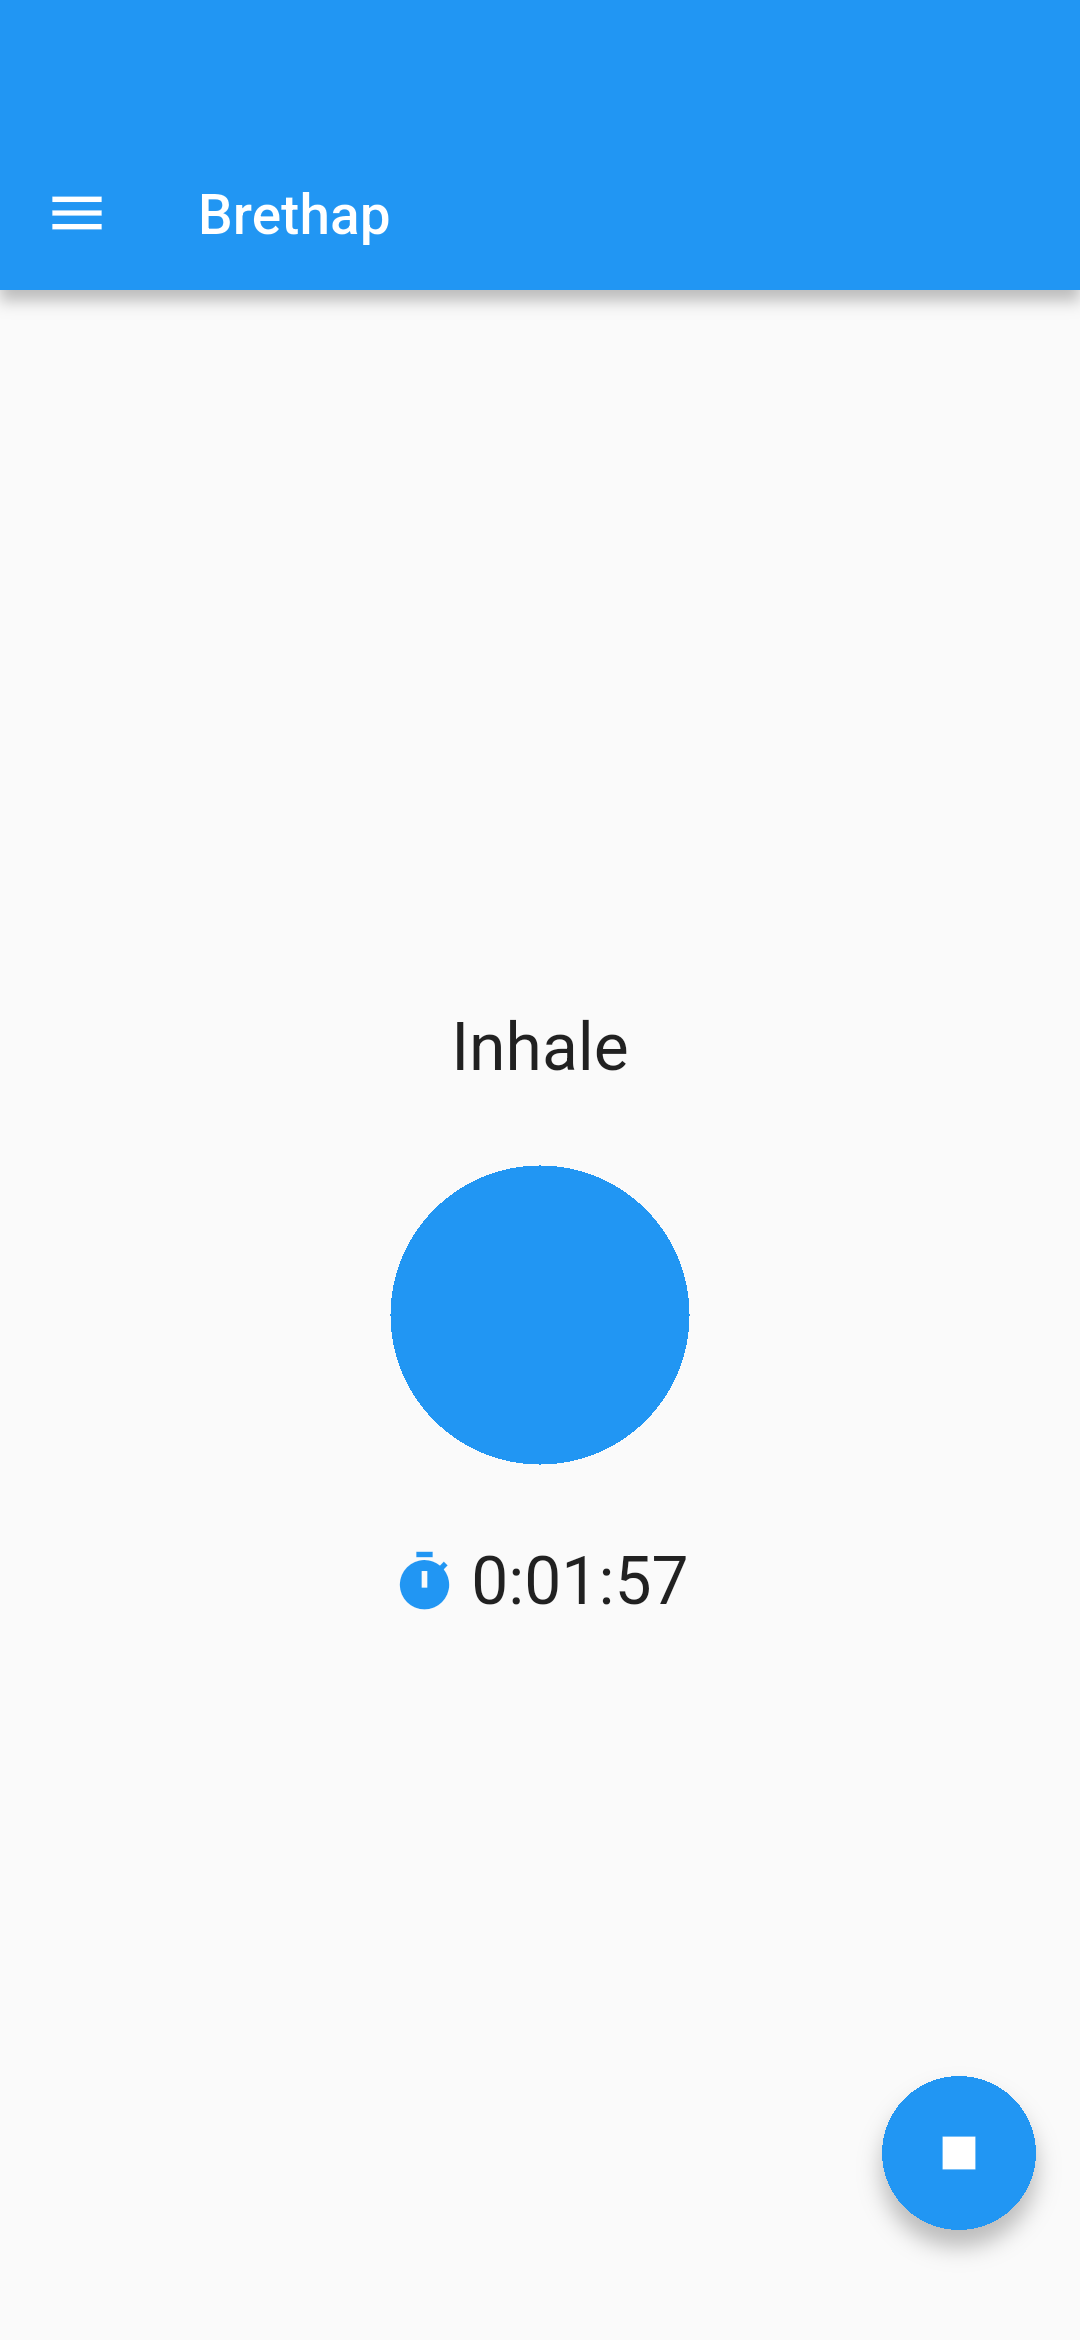
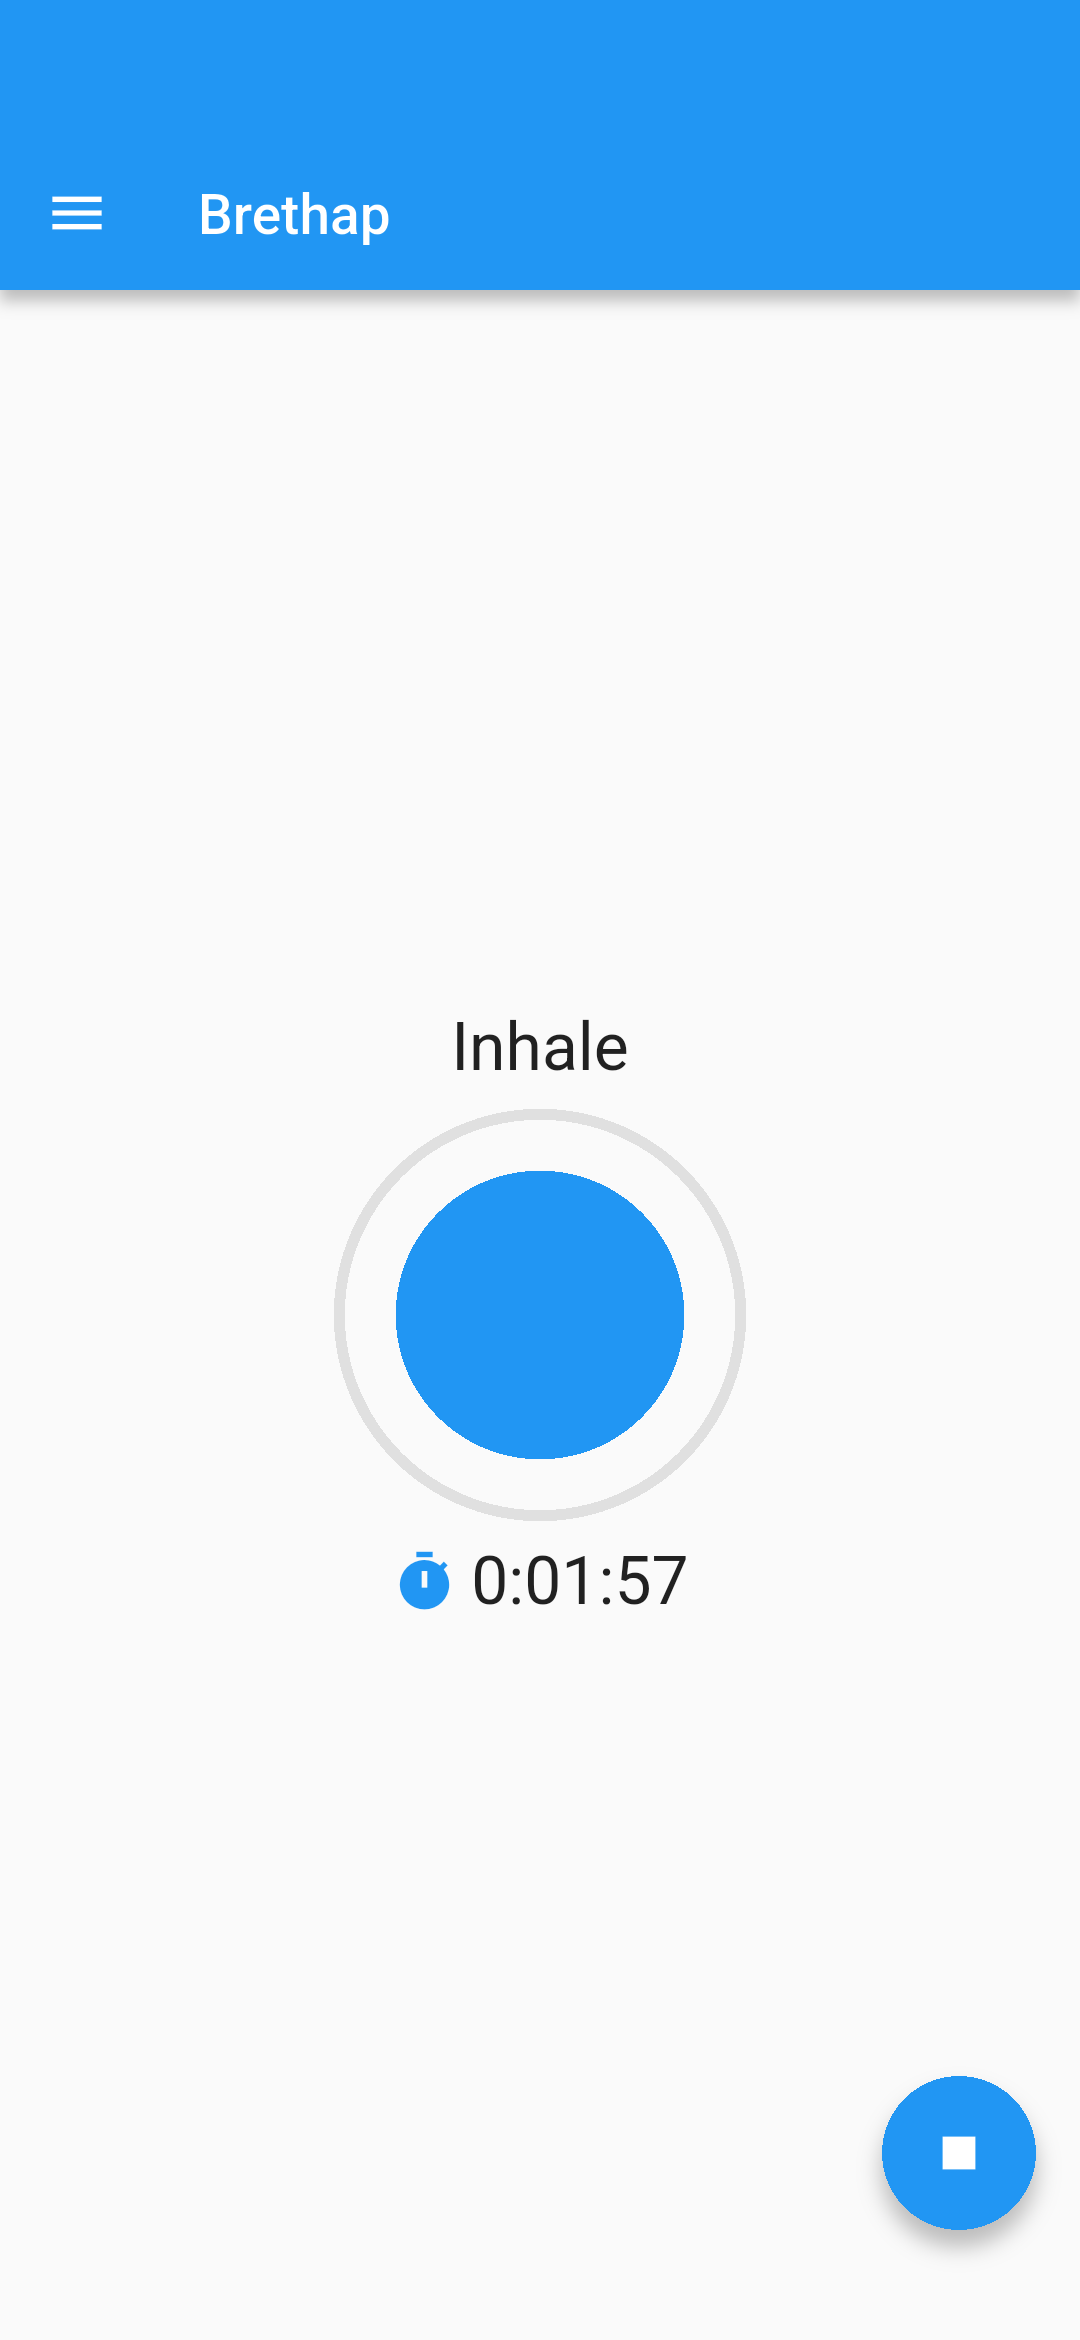
#134: Add breathing animation outer ring

Changed region(s): [[0.3056, 0.4679, 0.6722, 0.6551], [0.6722, 0.5303, 0.7028, 0.5927]]

diff --git a/lib/home_widget.dart b/lib/home_widget.dart
@@ -451,6 +451,12 @@ class _HomeWidgetState extends State<HomeWidget> {
       _status = AppLocalizations.of(context).pressStart;
     }
 
+    // Breathing animation constants
+    const double circleHeight = 150.0,
+        circleWidth = 150.0,
+        circlePadding = 8.0,
+        ringWidth = 4.0;
+
     return Scaffold(
       appBar: AppBar(
         title: Text(_appName),
@@ -524,19 +530,44 @@ class _HomeWidgetState extends State<HomeWidget> {
               semanticsLabel: _status,
             ),
             Center(
-              child: Transform.scale(
-                scale: _scale,
-                child: Padding(
-                  padding: const EdgeInsets.all(8.0),
-                  child: Container(
-                    width: 150.0,
-                    height: 150.0,
-                    decoration: BoxDecoration(
-                      color: Theme.of(context).primaryColor,
-                      shape: BoxShape.circle,
+              child: Stack(
+                clipBehavior: Clip.none,
+                children: <Widget>[
+                  // Breathing animation outer ring
+                  Visibility(
+                    visible: _isRunning,
+                    child: Padding(
+                      padding: EdgeInsets.all(circlePadding),
+                      child: Container(
+                        width: circleWidth,
+                        height: circleHeight,
+                        decoration: BoxDecoration(
+                          shape: BoxShape.circle,
+                          border: Border.all(
+                            color: Colors.grey.shade300,
+                            width: ringWidth,
+                          ),
+                        ),
+                      ),
                     ),
                   ),
-                ),
+
+                  // Breathing animation circle
+                  Transform.scale(
+                    scale: _scale,
+                    child: Padding(
+                      padding: EdgeInsets.all(circlePadding),
+                      child: Container(
+                        width: circleWidth,
+                        height: circleHeight,
+                        decoration: BoxDecoration(
+                          color: Theme.of(context).primaryColor,
+                          shape: BoxShape.circle,
+                        ),
+                      ),
+                    ),
+                  ),
+                ],
               ),
             ),
             Row(
